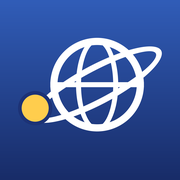
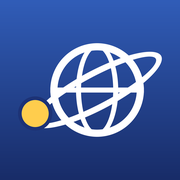
图标：地球圆本身上下边距相等，整体只做横向居中
Claude-Session: https://claude.ai/code/session_01P3JKNYSkJmxCKrJadSzQ2i

Changed region(s): [[0.1111, 0.1944, 0.9167, 0.7778]]

diff --git a/index.html b/index.html
@@ -9,8 +9,8 @@
 <meta name="mobile-web-app-capable" content="yes">
 <meta name="apple-mobile-web-app-status-bar-style" content="default">
 <meta name="apple-mobile-web-app-title" content="PayGlobe">
-<link rel="apple-touch-icon" href="icons/apple-touch-icon.png?v=3">
-<link rel="icon" type="image/png" sizes="192x192" href="icons/icon-192.png?v=3">
+<link rel="apple-touch-icon" href="icons/apple-touch-icon.png?v=4">
+<link rel="icon" type="image/png" sizes="192x192" href="icons/icon-192.png?v=4">
 <link rel="manifest" href="manifest.json">
 <style>
 /* 布局：紧凑的两栏信息台（宽屏两栏、手机单栏）；每个功能区一条蓝底白字标题带，部分区块垫浅色底 */
